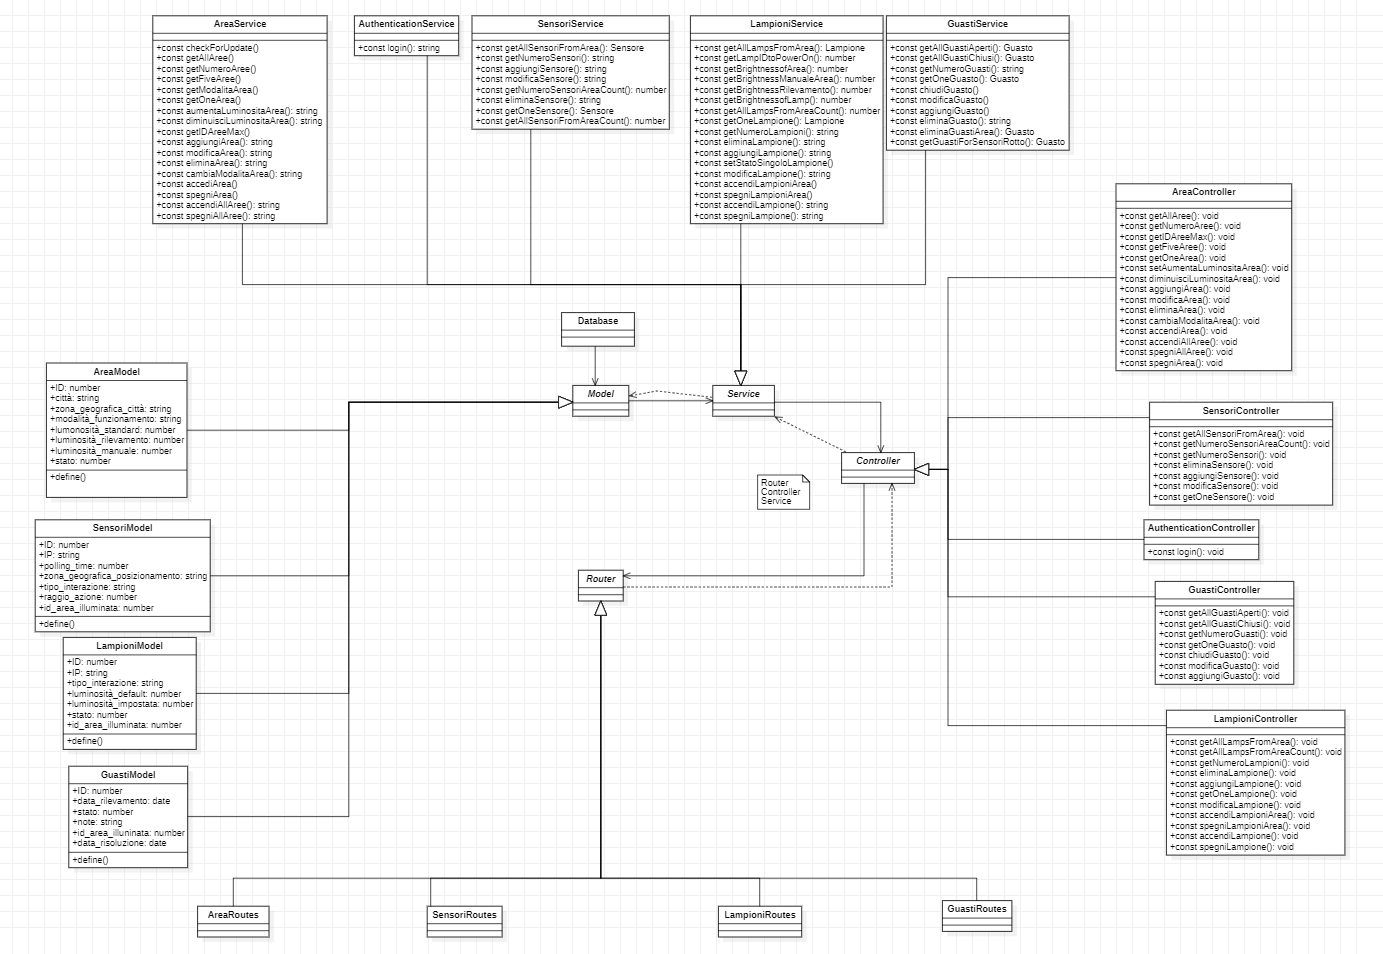
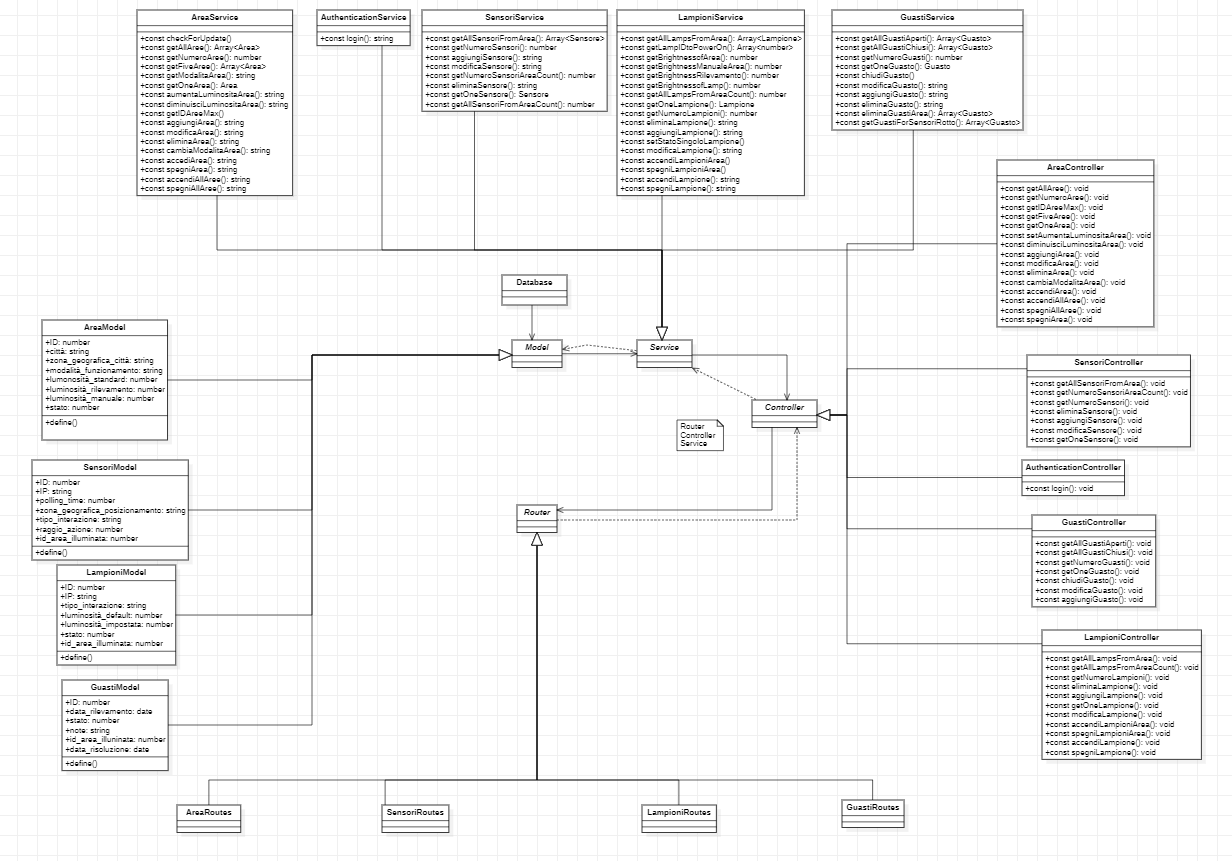
Aggiunti tipi dati mancanti e piccole correzioni

Changed region(s): [[0.0, 0.0, 0.987, 0.9965]]

diff --git a/specifica_tecnica/specifica_tecnica_v0.0.4.tex b/specifica_tecnica/specifica_tecnica_v0.0.4.tex
@@ -1,0 +1,246 @@
+\documentclass[12pt]{article}
+\usepackage{graphicx} % Required for inserting images
+\usepackage{hyperref}
+\usepackage{makecell}
+\usepackage{makeidx}
+\usepackage{eurosym}
+\usepackage{fancyhdr}
+\usepackage{titlesec}
+\usepackage{longtable}
+\input{../templates/first_page.tex} 
+\input{../templates/tabella_versioni.tex}
+\input{../templates/styles.tex}
+\graphicspath{ {../templates/img/} }
+
+\begin{document}
+\setcounter{tocdepth}{4}
+\setcounter{secnumdepth}{4}
+\title{Specifica Tecnica}
+
+\firstPage
+\pagebreak
+
+\maketitle
+
+\begin{center}
+    \begin{tabular}{r | l}
+		\multicolumn{2}{c}{\textit{Informazioni}}\\
+		\hline
+		
+			\textit{Redattori} &
+			[Davide Porporati, Elena Marchioro, Francesco Naletto]\makecell{}\\
+
+			\textit{Revisori} &
+			[Jude Vensil Braceros]\makecell{}\\
+			\textit{Responsabili} &
+			[Andrea Veronese]\makecell{}\\
+		      \textit{Uso} & 
+                [Esterno]\makecell{}\\
+    \end{tabular}
+\end{center}
+
+\begin{center}
+    \textbf{Descrizione}\\
+	File contenente la specifica tecnica necessaria per la realizzazione del progetto. 
+\end{center}
+
+\pagebreak
+\addversione{0.0.0}{09/08/2023}{Elena Marchioro}{Davide Porporati}{Creata struttura di base del documento}
+\addversione{0.0.1}{01/09/2023}{Davide Porporati, Elena Marchioro}{Francesco Naletto}{Modificata tabella requisiti e informazioni principali}
+\addversione{0.0.2}{04/09/2023}{Davide Porporati, Elena Marchioro}{Francesco Naletto}{Aggiornati i design pattern e caricato diagramma delle classi}
+\addversione{0.0.3}{09/09/2023}{Davide Porporati, Elena Marchioro}{Claudio Giaretta}{Aggiornati i design pattern e revisionato il documento}
+\addversione{1.0.0}{09/09/2023}{Davide Porporati, Elena Marchioro}{Francesco Naletto}{Aggiornati i diagrammi delle classi}
+
+\makeversioni
+
+\tableofcontents
+
+\pagebreak
+
+\graphicspath{ {./UML/images/} }
+
+\section{Introduzione}
+
+\subsection{Scopo del documento}
+Nel seguente documento vengono illustrate e motivate le scelte architetturali decise. Vengono riportati i diagrammi delle classi per l'architettura e le funzionalità principali,
+il diagramma ER della base di dati e infine una sezione dalla quale si può verificare lo stato di avanzamento del prodotto grazie a una tabella che illustra
+i requisiti soddisfatti.
+
+\subsection{Scopo del prodotto}
+L’obiettivo di SWEllfish e dell’azienda ImolaInformatica S.p.A. è lo sviluppo di un sistema per l’ottimizzazione dell’illuminazione, attraverso la realizzazione di una WebApp che permetta a degli utenti registrati di gestire l'impianto di illuminazione
+di un'area in modo manuale e automatico. Nel documento viene riportata l'architettura del sistema per i vari servizi e i design pattern utilizzati.
+
+\subsection{Riferimenti}
+\subsubsection{Riferimenti normativi}
+\begin{itemize}
+	\item Norme di progetto
+	\item Capitolato d'appalto C2 - \href{https://www.math.unipd.it/~tullio/IS-1/2022/Progetto/C2.pdf}{Lumos Minima}
+\end{itemize}
+\subsubsection{Riferimenti informativi}
+\begin{itemize}
+	\item Analisi dei requisiti
+	\item Slide P2 del corso di ingegneria del software - \href{https://www.math.unipd.it/~rcardin/swea/2023/Diagrammi%20delle%20Classi.pdf}{Diagrammi delle classi}
+	\item Slide P4 del corso di ingegneria del software - \href{https://www.math.unipd.it/~rcardin/sweb/2022/L02.pdf}{Progettazione: il pattern Model-View-Controller e derivati}
+\end{itemize}
+
+\section{Architettura del prodotto}
+
+\subsection{Diagramma delle classi}
+\subsubsection{Back-End}
+\includegraphics[width=450pt]{Back-End.png}
+\subsubsection{Front-End}
+\includegraphics[width=450pt]{Front-End.png}
+\clearpage
+\includegraphics[width=450pt]{Guasti.png}
+\includegraphics[width=450pt]{Front-End2.png}
+\clearpage
+
+\subsection{Design Pattern}
+\subsubsection{Back-end}
+Per il backend è stato utilizzato il seguente pattern:
+	\begin{itemize}
+		\item Router Controller Service Pattern:
+			Il design pattern dell'API Router-Controller-Service è un modello di architettura del software comunemente utilizzato nelle applicazioni web per strutturare e organizzare il codice responsabile della gestione delle richieste e delle risposte HTTP. Questo pattern aiuta a mantenere la separazione delle responsabilità e migliora la modularità e la manutenibilità dell'applicazione.
+
+			Ecco come funziona il pattern in pratica:
+			\begin{itemize}
+				\item Un client invia una richiesta HTTP alla tua applicazione;
+				\item Il componente Router riceve la richiesta e determina quale Controller deve gestirla in base all'URL e al metodo HTTP;
+				\item Il Controller selezionato elabora la richiesta. Se necessario, chiama i metodi del livello di Servizio per eseguire la logica aziendale e le operazioni sui dati.
+				\item Il Controller costruisce una risposta HTTP, che viene inviata al client.
+			\end{itemize}
+
+		
+	\end{itemize}
+\subsubsection{Front-end}
+Per il frontend si sono utilizzati i pattern:
+\begin{itemize}
+	\item Observer Pattern:
+	\begin{itemize}
+		\item Scopo: definire una dipendenza fra oggetti, riflettendo la modifica di un oggetto sui dipendenti.
+		\item Motivazione: mantenere la consistenza fra oggetti e definire come implementare la relazione di dipendenza.
+	\end{itemize}
+	\item Model View ViewModel Pattern (MVVM): è un modello di architettura del software che facilita la separazione dello sviluppo dell'interfaccia grafica, ovvero la GUI,
+sia tramite un linguaggio di markup o un codice GUI, dallo sviluppo del business logic o logica back-end in modo tale che la vista non dipenda da alcuna piattaforma di modello specifica.
+I componenti del modello MVVM:	
+	\begin{itemize}
+		\item Model;
+		\item View;
+		\item ViewModel;
+		\item Binder.
+	\end{itemize}
+\item IoC(Inversion of Control)
+	\begin{itemize}
+		\item Pattern che si concentra sulla gestione delle dipendenze e sul controllo dell'istanziazione degli oggetti. Questo pattern inverte il controllo tradizionalmente detenuto dalla 				componente chiamante, mettendo il controllo nelle mani di un framework o di un contenitore di gestione delle dipendenze.L'uso di questo pattern favorisce il disaccoppiamento e 				semplifica i test poiché le dipendenze sono dichiarate e possono essere facilmente sostituite con versioni mock durante i test.
+	\end{itemize}
+\end{itemize}
+ 	
+\section{Requisiti soddisfatti}
+\subsection{Tabella requisiti soddisfatti}
+
+\begin{tabular}{ |p{1.8cm}|p{5.2cm}|p{2.5cm}| p{3.5cm}| }
+	\hline
+	Requisito& Descrizione &Classificazione & Stato \\
+	\hline
+	RF1	 & L'utente deve poter fare il login al sistema & Obbligatorio & Soddisfatto \\
+	\hline				
+	RF2	 & L'utente visualizza lo stato del sistema & Obbligatorio & Soddisfatto \\
+	\hline				
+	RF3	 & L'utente deve poter aumentare la luminosità di un'area & Obbligatorio & Soddisfatto \\
+	\hline				
+	RF4	 & Il sistema deve visualizzare un messaggio d'errore se non si è potuto aumentare la luminosità & Obbligatorio & Soddisfatto \\
+	\hline	
+	RF5 & L'utente deve poter vedere l'elenco delle aree illuminate & Obbligatorio & Soddisfatto \\
+	\hline
+	RF6 & L'utente deve poter vedere l'elenco delle aree & Obbligatorio & Soddisfatto \\
+	\hline
+	RF7	 & L'utente deve poter selezionare le aree su cui operare & Obbligatorio & Soddisfatto \\
+	\hline	
+	RF8	 & L'utente deve poter diminuire la luminosità di un'area & Obbligatorio & Soddisfatto \\
+	\hline				
+	RF10	 & L'utente deve poter accedere alla dashboard & Obbligatorio & Soddisfatto \\
+	\hline										
+	RF11	 & Il sistema deve visualizzare un messaggio d'errore nel caso l'operazione di diminuzione della luminosità non fosse andata a buon fine & Obbligatorio & Soddisfatto \\
+	\hline				
+	RF12	 & L'utente deve poter diminuire la luminosità & Obbligatorio & Soddisfatto \\
+	\hline				
+\end{tabular}
+
+\begin{tabular}{ |p{1.8cm}|p{5.2cm}|p{2.5cm}| p{3.5cm}| }
+	\hline
+	Requisito& Descrizione &Classificazione & Stato \\
+	\hline
+	RF13	 & L'utente deve poter inserire una nuova area illuminata & Obbligatorio & Soddisfatto \\
+	\hline
+	RF14	 & L'utente deve poter rimuovere un area illuminata & Obbligatorio & Soddisfatto \\
+	\hline
+	RF15	 & L'utente deve poter accedere alla lista delle aree gestite & Obbligatorio & Soddisfatto \\
+	\hline				
+	RF16	 & L'utente deve poter modificare le informazioni di un'area illuminata	& Obbligatorio & Soddisfatto \\
+	\hline				
+	RF17	 & Il sistema mostra un messaggio di notifica una volta effettuata la modifica ad un area illuminata & Obbligatorio & Soddisfatto \\
+	\hline				
+	RF18	 & L'utente deve poter inserire un nuovo sensore in una area illuminata & Obbligatorio & Soddisfatto \\
+	\hline				
+	RF19	 & L'utente deve poter accedere all'area illuminata & Obbligatorio & Soddisfatto \\
+	\hline 				
+	RF20	 & L'utente deve poter rimuovere un sensore da un'area illuminata & Obbligatorio & Soddisfatto \\
+	\hline				
+	RF21	 & L'utente deve poter fare il logout dal sistema & Obbligatorio & Soddisfatto \\
+	\hline										
+	RF22	 & L'utente deve poter inserire un impianto nell'elenco dei guasti & Obbligatorio & Soddisfatto \\
+	\hline				
+	RF23	 & L'utente deve poter rimuovere un impianto dall'elenco dei guasti & Obbligatorio & Soddisfatto \\
+	\hline				
+	RF24	 & L'utente deve poter visualizzare i dettagli di un'area & Obbligatorio & Soddisfatto \\
+	\hline				
+	RF25	 & L'utente deve poter selezionare un lampione & Obbligatorio & Soddisfatto \\
+	\hline				
+	RF26	 & L'utente deve poter visualizzare i dettagli di un lampione & Obbligatorio & Soddisfatto \\
+	\hline				
+	RF27	 & L'utente deve poter inserire un nuovo lampione all'interno di un'area illuminata & Obbligatorio & Soddisfatto \\
+	\hline				
+	RF28	 & L'utente deve poter rimuovere un lampione all'interno di un'area illuminata & Obbligatorio & Soddisfatto \\
+	\hline
+\end{tabular}
+	
+\begin{tabular}{ |p{1.8cm}|p{5.2cm}|p{2.5cm}| p{3.5cm}| }
+	\hline
+	Requisito& Descrizione &Classificazione & Stato \\
+	\hline	
+	RF29	 & L'utente deve poter visualizzare l'elenco delle aree illuminate con dei malfunzionamenti & Obbligatorio & Soddisfatto \\
+	\hline				
+	RF30	 & L'amministratore deve poter aprire una nuova segnalazione di un guasto tramite un ticket & Obbligatorio & Soddisfatto \\
+	\hline				
+	RF31	 & L'amministratore deve poter chiudere il ticket dopo aver fatto la dovuta manutenzione & Obbligatorio & Soddisfatto \\
+	\hline				
+	RF32	 & Il manutentore deve poter visualizzare i dettagli aggiuntivi di un guasto forniti dal ticket & Desiderabile & Soddisfatto \\
+	\hline				
+	RF33	 & L'utente non amministratore riceve le credenziali da amministratore da un superamministratore & Desiderabile & Non Soddisfatto \\
+	\hline				
+	RF34	 & L'utente consulta il manuale Lumos Minima & Desiderabile & Soddisfatto \\
+	\hline				
+	RF35	 & Le nuove aree illuminate appena inserite hanno un setup standard & Desiderabile & Non Soddisfatto \\
+	\hline				
+	\end{tabular}
+	
+	\subsection{Qualità}
+	\begin{tabular}{ |p{1.8cm}|p{5.2cm}|p{3cm}| p{2cm}| }
+	\hline
+	Requisito& Descrizione &Classificazione & Stato \\
+	\hline
+	RQ1 & La webapp deve essere sviluppata seguendo le regole descritte nel documento Norme di progetto & Obbligatorio & Soddisfatto \\
+	RQ2 & Devono essere sviluppati dei test con una copertura minima dell'80\% e correlati di report & Obbligatorio & Soddisfatto\\
+	RQ3 & Deve essere prodotto un documento sulle scelte implementative e progettuali & Obbligatorio & Soddisfatto \\
+	RQ4 & Deve essere prodotto un documento sui problemi aperti e sulle eventuali soluzioni da esplorare & Obbligatorio & Non soddisfatto \\
+	RQ5 & Fornire un’analisi rispetto al carico massimo supportato in numero di dispositivi e di quale sarebbe il servizio cloud più adatto per supportarlo analizzando prezzo, stabilità del servizio ed assistenza.  &  Facoltativo & Non soddisfatto \\
+	\hline
+	
+	\end{tabular}
+\subsection{Dati soddisfazione requisiti}
+	\subsubsection{Percentuali test}
+	Dopo aver completato un'accurata fase di testing, i risultati sono i seguenti:
+	\\
+	\includegraphics[width=450pt]{percentuali_test.png}
+
+\end{document}
